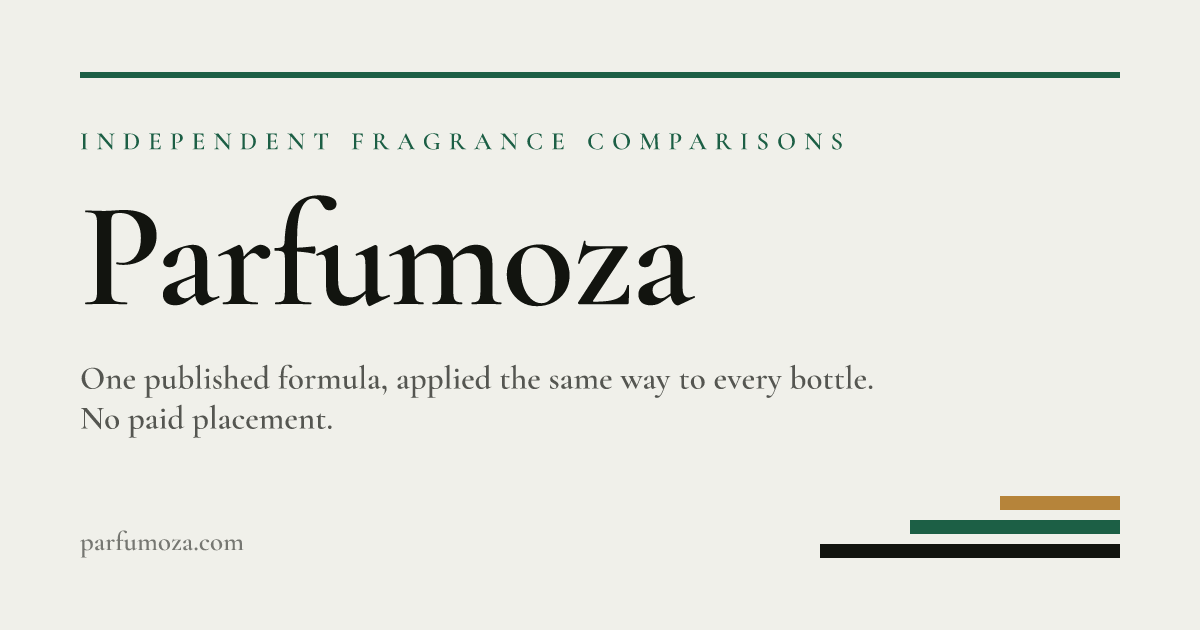
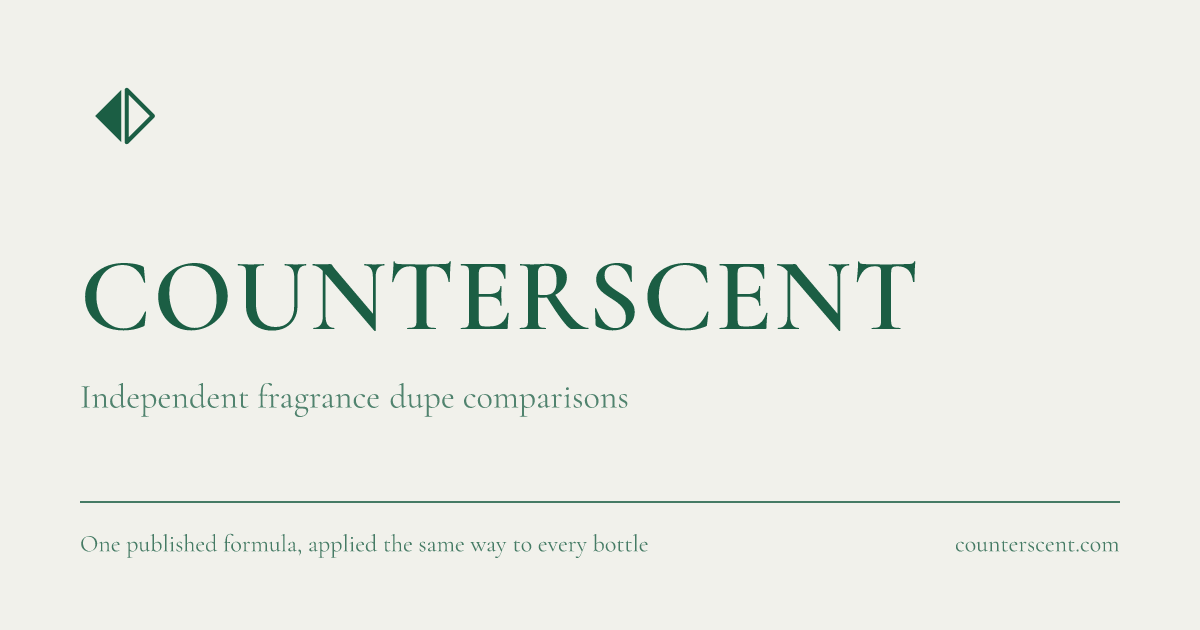
New OG card, cookieless GA4, and the USD account answer
OG CARD
public/og-cover.png re-rendered for the new brand. Every link pasted into a
chat had been showing the dead name.

Regenerated the documented way: a throwaway edge route using next/og with
Cormorant Garamond fetched from Google Fonts and the palette from
globals.css, then deleted. Two obstacles worth recording for next time --
trailingSlash:true redirects /og-render to /og-render/ where no handler is
registered, and output:"export" disables route handlers outright, so the
route 404s until the export is temporarily lifted. next.config.mjs was
restored from a backup immediately afterwards; verified zero route handlers
and a clean build.

COOKIELESS GA4
client_storage:'none' plus anonymize_ip. KVKK, like ePrivacy, keys the
consent requirement on storing information on the user's device -- no cookie
written means no consent banner, and /privacy now says that plainly instead
of resting on a legitimate-interest claim a regulator may not accept for
analytics cookies.

The cost is recorded in the component because it cuts the wrong way: without
client-side storage GA4 cannot recognise a returning visitor, so Users drifts
toward Sessions and the figure INFLATES. That is the direction that flatters
us, and the whole reason analytics is on is to answer "monthly unique
visitors" on an affiliate application. Do not quote GA4 Users to Awin --
Cloudflare Web Analytics is already on the account, cookieless by design, and
derives counts server-side.
[…]

diff --git a/internal/dashboard/design/Main.dc.html b/internal/dashboard/design/Main.dc.html
@@ -779,11 +779,11 @@ class Component extends DCLogic {
       { id: 171, title: 'Board-review fixes: house products can no longer self-certify a score', dept: 'web', status: 'fulfilled', priority: 1, due: null,
         notes: 'The unverified score cap keyed on the "verified" status - and PARFUMOZA is the only party who grants "verified", while also selling its own fragrance line on a site branded "Independent Fragrance Comparisons". Nothing structural stopped us marking our own bottle verified and publishing an uncapped score at #1. getPublishedScore now takes the whole listing (not a bare status) so no call site can bypass it, and refuses to lift the cap for a house product whatever its status says; the badge reads "Our own product - self-declared". Proven with two probe listings identical in notes, facets and verified status, differing only in producer: 90% house (capped) vs 92% third party (raw). That probe then exposed a SECOND defect nobody had noticed - ranking sorted on raw while display showed capped, so our bottle sat at #1 showing 90% above a listing showing 92%. Ranking now sorts published-first, raw-second, price-third. Also fixed: content/loader.ts now fails the build if the content type of a piece has no route (comparison/review routes were deleted, so writing one would have shipped a card linking to a 404 - the first thing an affiliate reviewer clicks), and the library page derives its tabs from what is actually published instead of showing permanent "Comparisons (0)" / "Reviews (0)". What is NOT fixed and is not fixable in code: a house listing whose notes are written close to the reference still legitimately out-ranks honest ones. That is data authorship, not scoring. COO recommendation stands - launch with no house products until Awin approves.' },
       { id: 172, title: 'Affiliate payee settled: A.S. - but the USD account may be in the wrong name', dept: 'acct', status: 'in_progress', priority: 1, due: null,
-        notes: 'Founder decided the payee is the company: Awin does not self-bill Turkish tax residents (Turkey is an explicit exception in their own policy), so we issue our own invoice per payout, and a Turkish individual cannot casually issue a fatura. OPEN PROBLEM, and it is the CFO warning "costs sit in the A.S., revenue lands personally" warning in concrete form: the founder confirmed a USD account exists but is not connected to Payoneer - and the only USD account previously on record (2026-08-24) is a PERSONAL one. An A.S. issuing the invoice while a personal account receives the money means the invoice issuer and the payment recipient are different legal persons, which a mali musavir will object to. Confirm whose name the USD account is in before enrolling; if personal, the A.S. needs its own USD (doviz) account - routine to open with a tax ID on file. Separately VERIFIED LIVE against the Amazon Associates help page: Amazon direct deposit is gated on COUNTRY, not just currency - US (USD), UK (GBP/EUR), 51 Eurozone/EEA (EUR), 52 total, and Turkey is not among them. A USD account held in Turkey does not qualify. So the USD account does not unblock Amazon; only Payoneer does, because Payoneer supplies a US-domiciled account. amazon.com.tr is also invite-only.' },
+        notes: 'UPDATE 2026-08-27 evening: founder checked - the COMPANY HAS NO USD ACCOUNT. The only USD account on record is personal, so an A.S. invoice paid into it would make the invoice issuer and the payee different legal persons. A company USD (doviz) account is being opened 2026-08-28; routine with a tax ID on file. DO NOT ENROL ANYWHERE until it exists - the payee named on an affiliate application is hard to change afterwards. Note the bank account is separate from Payoneer: Payoneer supplies a US-domiciled account, which is what Amazon needs, while Awin pays a local bank account directly. ALSO DONE this session: GA4 switched to cookieless (client_storage none, anonymize_ip), which removes the KVKK consent question entirely - no cookie is written so there is nothing to consent to, and the privacy page now says so plainly instead of resting on a legitimate-interest claim. HONEST CAVEAT recorded in the code: cookieless GA4 cannot recognise a returning visitor, so its Users figure INFLATES toward sessions - the direction that flatters us. Do not quote it to Awin; use Cloudflare Web Analytics, already on the account and cookieless by design, for any number that goes on an application. Founder decided the payee is the company: Awin does not self-bill Turkish tax residents (Turkey is an explicit exception in their own policy), so we issue our own invoice per payout, and a Turkish individual cannot casually issue a fatura. OPEN PROBLEM, and it is the CFO warning "costs sit in the A.S., revenue lands personally" warning in concrete form: the founder confirmed a USD account exists but is not connected to Payoneer - and the only USD account previously on record (2026-08-24) is a PERSONAL one. An A.S. issuing the invoice while a personal account receives the money means the invoice issuer and the payment recipient are different legal persons, which a mali musavir will object to. Confirm whose name the USD account is in before enrolling; if personal, the A.S. needs its own USD (doviz) account - routine to open with a tax ID on file. Separately VERIFIED LIVE against the Amazon Associates help page: Amazon direct deposit is gated on COUNTRY, not just currency - US (USD), UK (GBP/EUR), 51 Eurozone/EEA (EUR), 52 total, and Turkey is not among them. A USD account held in Turkey does not qualify. So the USD account does not unblock Amazon; only Payoneer does, because Payoneer supplies a US-domiciled account. amazon.com.tr is also invite-only.' },
       { id: 173, title: 'Producer store-direct links: the one catalog path that does not need Awin', dept: 'sales', status: 'assigned', priority: 1, due: null,
         notes: 'Founder proposal: paid subscribers link straight at their own Shopify store, uncapped, with no affiliate network in between. Written up as PRODUCER-PROGRAM.md section 6a. Its real value is not pricing - it is the only route to a populated catalog that does not depend on Awin approving us. A subscribing producer supplies the same three things an affiliate feed would: real product names, real prices, and imagery they own the rights to, which is the other thing blocking the site (all 68 references have an empty imageUrl because perfume bottles are protected trade dress). It also removes the subscription-plus-commission double-dip for those listings - we take the subscription instead of commission, which decouples our revenue from ranking outcomes entirely. FOUR CONDITIONS before it ships. (1) Every paid outbound link needs rel="sponsored" - verified against the Google spam policy: links bought via subscription are paid links, and unmarked dofollow paid links are a link scheme whose penalty lands on OUR domain. (2) "Unlimited" must mean unlimited originals covered, not unlimited rows - one listing per producer-reference pair, which caps at 68 today and is not gameable by blanketing the catalog with variants. (3) It buys coverage, never placement - the score cap applies to these exactly as to any other unverified listing. (4) With no network there is no conversion report, so the Featured tier must stop promising conversion data for store-direct listings until attribution is agreed.' },
-      { id: 174, title: 'Brand rename: Parfumoza -> Counterscent, plus a new logo and two false claims removed', dept: 'web', status: 'in_progress', priority: 1, due: null,
-        notes: 'The board niche research named Fragrantica as the category authority and argued a design/quality gap. It never checked Parfumo (parfumo.com) - 227,701 fragrances, 14,421 brands, 283K reviews, running since 2008, and LARGER than Fragrantica. Parfumo is exactly the long-tenured neutral specialist the research said the category lacked, so the differentiation thesis rested on an incomplete survey. Worse, the domain we had bought contained Parfumo whole and sat one letter from Parfumado (a EUR3.2M-funded perfume subscription service). Certain consequence: our brand query would be permanently intercepted by a far bigger same-niche brand. Likely: an Awin reviewer reads a dupe site named one letter off the sector database as brand-piggybacking. Plausible but unverified: trademark exposure - no registration was found, which is an open question, not a clearance. Caught at the cheapest possible moment: zero backlinks, nothing indexed, no affiliate application filed. VETTING THE REPLACEMENT eliminated five of eight candidates, two of which were about to be recommended: drydowns.com (The Drydown is an operating San Diego niche boutique - the original brand instinct would have hit the same trap), echoscent.com (a live brand pitched as smell expensive without overspending, our exact positioning), scentkin.com (Maison Kin, operating house), nearscent.com, and sillageo.com (ends in -o like both incumbents). DONE: counterscent.com chosen; 28 code files renamed, 55 replacements, build/lint/tsc clean; new logo designed - one facet split down the middle, left half solid and right half outline, identical in shape and different in substance, the gap between them being the comparison itself; drawn in currentColor so one asset serves both themes. ALSO FOUND while wiring the logo into the footer: two surviving instances of the false first-hand claim that the Phase 0 honesty pass had recorded as removed - We buy the bottles on the homepage and We buy what we review in every page footer. We own no bottles and lib/types.ts states the facets are an editorial estimate. Both replaced with what is true. A claim can outlive its own correction. MY OWN ERROR, recorded because it cost real work: the bulk markdown rename rewrote the historical name inside the very section written to preserve it, producing Drydown -> Counterscent -> Counterscent. The dead name is now HTML-escaped in that section so a future find-and-replace cannot touch it. Code is mechanical, prose is not.' },
+      { id: 174, title: 'Brand rename: Parfumoza -> Counterscent, plus a new logo and two false claims removed', dept: 'web', status: 'fulfilled', priority: 1, due: null,
+        notes: 'MIGRATION COMPLETE 2026-08-27: counterscent.com is live on Cloudflare with the new brand and logo, the nameserver move preserved every mail record, the sitemap serves 86 URLs all on the new domain with zero pointing at the old one, GA4 stream URL updated, and Search Console accepted the sitemap. The old domain was shut down at Hostinger with auto-renew disabled, so it lapses rather than charging the card again. Verified from outside the founder network AS GOOGLEBOT, not just in a browser: sitemap 200 application/xml, homepage 200, robots.txt 200 and declaring the sitemap, www 200 - because Cloudflare bot protection challenging Googlebot would have looked identical to a Search Console bug. Note robots.txt now carries a Cloudflare Managed Content block above ours; its User-agent: * group ends in Allow: / with a blank line before the AI-bot Disallow blocks, so Googlebot is not affected - worth re-checking if Cloudflare ever changes that injection. REMAINING: og-cover.png still renders the dead brand on every social share, and the GA4 cookies vs KVKK decision is still the founder call. The board niche research named Fragrantica as the category authority and argued a design/quality gap. It never checked Parfumo (parfumo.com) - 227,701 fragrances, 14,421 brands, 283K reviews, running since 2008, and LARGER than Fragrantica. Parfumo is exactly the long-tenured neutral specialist the research said the category lacked, so the differentiation thesis rested on an incomplete survey. Worse, the domain we had bought contained Parfumo whole and sat one letter from Parfumado (a EUR3.2M-funded perfume subscription service). Certain consequence: our brand query would be permanently intercepted by a far bigger same-niche brand. Likely: an Awin reviewer reads a dupe site named one letter off the sector database as brand-piggybacking. Plausible but unverified: trademark exposure - no registration was found, which is an open question, not a clearance. Caught at the cheapest possible moment: zero backlinks, nothing indexed, no affiliate application filed. VETTING THE REPLACEMENT eliminated five of eight candidates, two of which were about to be recommended: drydowns.com (The Drydown is an operating San Diego niche boutique - the original brand instinct would have hit the same trap), echoscent.com (a live brand pitched as smell expensive without overspending, our exact positioning), scentkin.com (Maison Kin, operating house), nearscent.com, and sillageo.com (ends in -o like both incumbents). DONE: counterscent.com chosen; 28 code files renamed, 55 replacements, build/lint/tsc clean; new logo designed - one facet split down the middle, left half solid and right half outline, identical in shape and different in substance, the gap between them being the comparison itself; drawn in currentColor so one asset serves both themes. ALSO FOUND while wiring the logo into the footer: two surviving instances of the false first-hand claim that the Phase 0 honesty pass had recorded as removed - We buy the bottles on the homepage and We buy what we review in every page footer. We own no bottles and lib/types.ts states the facets are an editorial estimate. Both replaced with what is true. A claim can outlive its own correction. MY OWN ERROR, recorded because it cost real work: the bulk markdown rename rewrote the historical name inside the very section written to preserve it, producing Drydown -> Counterscent -> Counterscent. The dead name is now HTML-escaped in that section so a future find-and-replace cannot touch it. Code is mechanical, prose is not.' },
     ];
 
     // Demo-only tasks for departments with no real assignment yet — shown only with

diff --git a/internal/dashboard/design/sirketim-dashboard.html b/internal/dashboard/design/sirketim-dashboard.html
@@ -520,11 +520,11 @@
     { id: 171, title: 'Board-review fixes: house products can no longer self-certify a score', dept: 'web', status: 'fulfilled', priority: 1, due: null,
       notes: 'The unverified score cap keyed on the "verified" status - and PARFUMOZA is the only party who grants "verified", while also selling its own fragrance line on a site branded "Independent Fragrance Comparisons". Nothing structural stopped us marking our own bottle verified and publishing an uncapped score at #1. getPublishedScore now takes the whole listing (not a bare status) so no call site can bypass it, and refuses to lift the cap for a house product whatever its status says; the badge reads "Our own product - self-declared". Proven with two probe listings identical in notes, facets and verified status, differing only in producer: 90% house (capped) vs 92% third party (raw). That probe then exposed a SECOND defect nobody had noticed - ranking sorted on raw while display showed capped, so our bottle sat at #1 showing 90% above a listing showing 92%. Ranking now sorts published-first, raw-second, price-third. Also fixed: content/loader.ts now fails the build if the content type of a piece has no route (comparison/review routes were deleted, so writing one would have shipped a card linking to a 404 - the first thing an affiliate reviewer clicks), and the library page derives its tabs from what is actually published instead of showing permanent "Comparisons (0)" / "Reviews (0)". What is NOT fixed and is not fixable in code: a house listing whose notes are written close to the reference still legitimately out-ranks honest ones. That is data authorship, not scoring. COO recommendation stands - launch with no house products until Awin approves.' },
     { id: 172, title: 'Affiliate payee settled: A.S. - but the USD account may be in the wrong name', dept: 'acct', status: 'in_progress', priority: 1, due: null,
-      notes: 'Founder decided the payee is the company: Awin does not self-bill Turkish tax residents (Turkey is an explicit exception in their own policy), so we issue our own invoice per payout, and a Turkish individual cannot casually issue a fatura. OPEN PROBLEM, and it is the CFO warning "costs sit in the A.S., revenue lands personally" warning in concrete form: the founder confirmed a USD account exists but is not connected to Payoneer - and the only USD account previously on record (2026-08-24) is a PERSONAL one. An A.S. issuing the invoice while a personal account receives the money means the invoice issuer and the payment recipient are different legal persons, which a mali musavir will object to. Confirm whose name the USD account is in before enrolling; if personal, the A.S. needs its own USD (doviz) account - routine to open with a tax ID on file. Separately VERIFIED LIVE against the Amazon Associates help page: Amazon direct deposit is gated on COUNTRY, not just currency - US (USD), UK (GBP/EUR), 51 Eurozone/EEA (EUR), 52 total, and Turkey is not among them. A USD account held in Turkey does not qualify. So the USD account does not unblock Amazon; only Payoneer does, because Payoneer supplies a US-domiciled account. amazon.com.tr is also invite-only.' },
+      notes: 'UPDATE 2026-08-27 evening: founder checked - the COMPANY HAS NO USD ACCOUNT. The only USD account on record is personal, so an A.S. invoice paid into it would make the invoice issuer and the payee different legal persons. A company USD (doviz) account is being opened 2026-08-28; routine with a tax ID on file. DO NOT ENROL ANYWHERE until it exists - the payee named on an affiliate application is hard to change afterwards. Note the bank account is separate from Payoneer: Payoneer supplies a US-domiciled account, which is what Amazon needs, while Awin pays a local bank account directly. ALSO DONE this session: GA4 switched to cookieless (client_storage none, anonymize_ip), which removes the KVKK consent question entirely - no cookie is written so there is nothing to consent to, and the privacy page now says so plainly instead of resting on a legitimate-interest claim. HONEST CAVEAT recorded in the code: cookieless GA4 cannot recognise a returning visitor, so its Users figure INFLATES toward sessions - the direction that flatters us. Do not quote it to Awin; use Cloudflare Web Analytics, already on the account and cookieless by design, for any number that goes on an application. Founder decided the payee is the company: Awin does not self-bill Turkish tax residents (Turkey is an explicit exception in their own policy), so we issue our own invoice per payout, and a Turkish individual cannot casually issue a fatura. OPEN PROBLEM, and it is the CFO warning "costs sit in the A.S., revenue lands personally" warning in concrete form: the founder confirmed a USD account exists but is not connected to Payoneer - and the only USD account previously on record (2026-08-24) is a PERSONAL one. An A.S. issuing the invoice while a personal account receives the money means the invoice issuer and the payment recipient are different legal persons, which a mali musavir will object to. Confirm whose name the USD account is in before enrolling; if personal, the A.S. needs its own USD (doviz) account - routine to open with a tax ID on file. Separately VERIFIED LIVE against the Amazon Associates help page: Amazon direct deposit is gated on COUNTRY, not just currency - US (USD), UK (GBP/EUR), 51 Eurozone/EEA (EUR), 52 total, and Turkey is not among them. A USD account held in Turkey does not qualify. So the USD account does not unblock Amazon; only Payoneer does, because Payoneer supplies a US-domiciled account. amazon.com.tr is also invite-only.' },
     { id: 173, title: 'Producer store-direct links: the one catalog path that does not need Awin', dept: 'sales', status: 'assigned', priority: 1, due: null,
       notes: 'Founder proposal: paid subscribers link straight at their own Shopify store, uncapped, with no affiliate network in between. Written up as PRODUCER-PROGRAM.md section 6a. Its real value is not pricing - it is the only route to a populated catalog that does not depend on Awin approving us. A subscribing producer supplies the same three things an affiliate feed would: real product names, real prices, and imagery they own the rights to, which is the other thing blocking the site (all 68 references have an empty imageUrl because perfume bottles are protected trade dress). It also removes the subscription-plus-commission double-dip for those listings - we take the subscription instead of commission, which decouples our revenue from ranking outcomes entirely. FOUR CONDITIONS before it ships. (1) Every paid outbound link needs rel="sponsored" - verified against the Google spam policy: links bought via subscription are paid links, and unmarked dofollow paid links are a link scheme whose penalty lands on OUR domain. (2) "Unlimited" must mean unlimited originals covered, not unlimited rows - one listing per producer-reference pair, which caps at 68 today and is not gameable by blanketing the catalog with variants. (3) It buys coverage, never placement - the score cap applies to these exactly as to any other unverified listing. (4) With no network there is no conversion report, so the Featured tier must stop promising conversion data for store-direct listings until attribution is agreed.' },
-    { id: 174, title: 'Brand rename: Parfumoza -> Counterscent, plus a new logo and two false claims removed', dept: 'web', status: 'in_progress', priority: 1, due: null,
-      notes: 'The board niche research named Fragrantica as the category authority and argued a design/quality gap. It never checked Parfumo (parfumo.com) - 227,701 fragrances, 14,421 brands, 283K reviews, running since 2008, and LARGER than Fragrantica. Parfumo is exactly the long-tenured neutral specialist the research said the category lacked, so the differentiation thesis rested on an incomplete survey. Worse, the domain we had bought contained Parfumo whole and sat one letter from Parfumado (a EUR3.2M-funded perfume subscription service). Certain consequence: our brand query would be permanently intercepted by a far bigger same-niche brand. Likely: an Awin reviewer reads a dupe site named one letter off the sector database as brand-piggybacking. Plausible but unverified: trademark exposure - no registration was found, which is an open question, not a clearance. Caught at the cheapest possible moment: zero backlinks, nothing indexed, no affiliate application filed. VETTING THE REPLACEMENT eliminated five of eight candidates, two of which were about to be recommended: drydowns.com (The Drydown is an operating San Diego niche boutique - the original brand instinct would have hit the same trap), echoscent.com (a live brand pitched as smell expensive without overspending, our exact positioning), scentkin.com (Maison Kin, operating house), nearscent.com, and sillageo.com (ends in -o like both incumbents). DONE: counterscent.com chosen; 28 code files renamed, 55 replacements, build/lint/tsc clean; new logo designed - one facet split down the middle, left half solid and right half outline, identical in shape and different in substance, the gap between them being the comparison itself; drawn in currentColor so one asset serves both themes. ALSO FOUND while wiring the logo into the footer: two surviving instances of the false first-hand claim that the Phase 0 honesty pass had recorded as removed - We buy the bottles on the homepage and We buy what we review in every page footer. We own no bottles and lib/types.ts states the facets are an editorial estimate. Both replaced with what is true. A claim can outlive its own correction. MY OWN ERROR, recorded because it cost real work: the bulk markdown rename rewrote the historical name inside the very section written to preserve it, producing Drydown -> Counterscent -> Counterscent. The dead name is now HTML-escaped in that section so a future find-and-replace cannot touch it. Code is mechanical, prose is not.' }
+    { id: 174, title: 'Brand rename: Parfumoza -> Counterscent, plus a new logo and two false claims removed', dept: 'web', status: 'fulfilled', priority: 1, due: null,
+      notes: 'MIGRATION COMPLETE 2026-08-27: counterscent.com is live on Cloudflare with the new brand and logo, the nameserver move preserved every mail record, the sitemap serves 86 URLs all on the new domain with zero pointing at the old one, GA4 stream URL updated, and Search Console accepted the sitemap. The old domain was shut down at Hostinger with auto-renew disabled, so it lapses rather than charging the card again. Verified from outside the founder network AS GOOGLEBOT, not just in a browser: sitemap 200 application/xml, homepage 200, robots.txt 200 and declaring the sitemap, www 200 - because Cloudflare bot protection challenging Googlebot would have looked identical to a Search Console bug. Note robots.txt now carries a Cloudflare Managed Content block above ours; its User-agent: * group ends in Allow: / with a blank line before the AI-bot Disallow blocks, so Googlebot is not affected - worth re-checking if Cloudflare ever changes that injection. REMAINING: og-cover.png still renders the dead brand on every social share, and the GA4 cookies vs KVKK decision is still the founder call. The board niche research named Fragrantica as the category authority and argued a design/quality gap. It never checked Parfumo (parfumo.com) - 227,701 fragrances, 14,421 brands, 283K reviews, running since 2008, and LARGER than Fragrantica. Parfumo is exactly the long-tenured neutral specialist the research said the category lacked, so the differentiation thesis rested on an incomplete survey. Worse, the domain we had bought contained Parfumo whole and sat one letter from Parfumado (a EUR3.2M-funded perfume subscription service). Certain consequence: our brand query would be permanently intercepted by a far bigger same-niche brand. Likely: an Awin reviewer reads a dupe site named one letter off the sector database as brand-piggybacking. Plausible but unverified: trademark exposure - no registration was found, which is an open question, not a clearance. Caught at the cheapest possible moment: zero backlinks, nothing indexed, no affiliate application filed. VETTING THE REPLACEMENT eliminated five of eight candidates, two of which were about to be recommended: drydowns.com (The Drydown is an operating San Diego niche boutique - the original brand instinct would have hit the same trap), echoscent.com (a live brand pitched as smell expensive without overspending, our exact positioning), scentkin.com (Maison Kin, operating house), nearscent.com, and sillageo.com (ends in -o like both incumbents). DONE: counterscent.com chosen; 28 code files renamed, 55 replacements, build/lint/tsc clean; new logo designed - one facet split down the middle, left half solid and right half outline, identical in shape and different in substance, the gap between them being the comparison itself; drawn in currentColor so one asset serves both themes. ALSO FOUND while wiring the logo into the footer: two surviving instances of the false first-hand claim that the Phase 0 honesty pass had recorded as removed - We buy the bottles on the homepage and We buy what we review in every page footer. We own no bottles and lib/types.ts states the facets are an editorial estimate. Both replaced with what is true. A claim can outlive its own correction. MY OWN ERROR, recorded because it cost real work: the bulk markdown rename rewrote the historical name inside the very section written to preserve it, producing Drydown -> Counterscent -> Counterscent. The dead name is now HTML-escaped in that section so a future find-and-replace cannot touch it. Code is mechanical, prose is not.' }
   ];
 
   var SAMPLE_TASKS = [

diff --git a/products/affiliate-sites/fragrance-dupes/components/kit/Analytics.tsx b/products/affiliate-sites/fragrance-dupes/components/kit/Analytics.tsx
@@ -18,6 +18,36 @@ import { gaMeasurementId } from "@/lib/site";
  * `NEXT_PUBLIC_GSC_VERIFICATION` meta-tag path in app/layout.tsx is the
  * fallback for hosts where DNS is not ours to edit; it is unused here.
  */
+/**
+ * RUNS COOKIELESS, DELIBERATELY (2026-08-27).
+ *
+ * `client_storage: 'none'` stops GA4 writing the `_ga` cookie, and
+ * `anonymize_ip` truncates the address before storage. Together they take the
+ * site out of the category that needs consent: Turkey's KVKK, like the EU's
+ * ePrivacy rules, keys the consent requirement on *storing or accessing
+ * information on the user's device*, not on analytics as such. No cookie
+ * written means no consent banner, and `/privacy` can state that plainly
+ * rather than resting on a "legitimate interest" claim that a regulator may
+ * not accept for analytics cookies.
+ *
+ * THE COST, STATED PLAINLY BECAUSE IT CUTS THE WRONG WAY:
+ * without client-side storage GA4 cannot recognise a returning visitor, so it
+ * mints a new client id per visit. "Users" therefore drifts toward "sessions"
+ * and the number is INFLATED, not deflated. That matters here specifically,
+ * because the whole reason analytics was switched on is to answer "monthly
+ * unique visitors" on an affiliate application - and this error runs in the
+ * direction that flatters us.
+ *
+ * So do not quote GA4's Users figure to Awin. Cloudflare Web Analytics is
+ * already available on this account, is cookieless by design, and derives
+ * visitor counts server-side without the same inflation - use that for any
+ * number that goes on an application, and treat GA4 here as what it is: a
+ * shape-of-traffic tool (which pages, which sources, which trend).
+ *
+ * To revert to cookie-based GA4, remove the two flags AND add a consent
+ * banner in the same change - the flags are what make the missing banner
+ * lawful, so removing them alone silently creates the exposure.
+ */
 export function GoogleAnalytics() {
   const id = gaMeasurementId();
   if (!id) return null;
@@ -28,7 +58,10 @@ export function GoogleAnalytics() {
         {`window.dataLayer = window.dataLayer || [];
           function gtag(){dataLayer.push(arguments);}
           gtag('js', new Date());
-          gtag('config', '${id}');`}
+          gtag('config', '${id}', {
+            client_storage: 'none',
+            anonymize_ip: true
+          });`}
       </Script>
     </>
   );

diff --git a/products/affiliate-sites/fragrance-dupes/app/privacy/page.tsx b/products/affiliate-sites/fragrance-dupes/app/privacy/page.tsx
@@ -43,14 +43,22 @@ export default function PrivacyPage() {
 
         <h2>What we collect</h2>
         <p>
-          <strong>Analytics.</strong> We use Google
-          Analytics 4 to count visits and see which pages people read. It
-          records things like the page you viewed, your approximate region,
-          your browser and device type, and the site you arrived from. IP
-          addresses are anonymised by Google before they reach us. We use this
-          only to understand what is worth writing more of. Our lawful basis
-          is legitimate interest in understanding site usage, and you can opt
-          out at any time using Google&apos;s own{" "}
+          <strong>Analytics, and it does not use cookies.</strong> We use
+          Google Analytics 4 to count visits and see which pages people read,
+          configured so that it stores <em>nothing on your device</em> &mdash;
+          no analytics cookie is written, and no identifier is kept between
+          visits. That is why this site has no cookie banner: there is nothing
+          to ask you to consent to.
+        </p>
+        <p>
+          It records the page you viewed, your approximate region, your browser
+          and device type, and the site you arrived from. IP addresses are
+          anonymised before storage. We use this only to understand what is
+          worth writing more of. Because nothing is stored on your device, we
+          cannot tell whether you have been here before, and we do not build a
+          profile of you. Our lawful basis is legitimate interest in
+          understanding site usage; you can also opt out at any time using
+          Google&apos;s own{" "}
           <a
             href="https://tools.google.com/dlpage/gaoptout"
             rel="noopener noreferrer"

diff --git a/departments/accounting/CLAUDE.md b/departments/accounting/CLAUDE.md
@@ -80,6 +80,6 @@ Entity status confirmed (2026-08-24): Sirketim is a registered A.Ş. (anonim şi
 | Etsy | Firm (A.Ş.) | Bank transfer only (TR IBAN, TRY) — PayPal not available to Etsy sellers based in Turkey. | Firm TRY account confirmed available (2026-08-24) — not yet linked in Etsy Payments. | Turkish sellers on foreign marketplaces are separately required to register with ETBIS (Elektronik Ticaret Bilgi Sistemi); with the entity blocker resolved (Sirketim is a registered A.Ş. with a tax ID on file), ETBİS registration is now achievable — the remaining work is completing the registration process itself, not a missing entity or missing account. Exact KYC/tax-ID fields Etsy's signup form asks for TR sellers specifically weren't independently confirmed — check live at signup. |
 | Gumroad | TBD — founder decision | Confirmed rail gap: Gumroad's only two payout rails are PayPal and Stripe Connect bank payout. Stripe does not support standard/Connect accounts for Turkey, and PayPal does not operate in Turkey — neither rail currently works for a Turkey-based seller, and no Payoneer/Wise/bank-transfer alternative exists on Gumroad. | Not yet set up | No payout method selected in Gumroad account settings yet. This may not currently be executable at all for a TR-resident seller — verify live in Gumroad's own signup country dropdown before any listing effort. Contradicts the "secondary marketplace" assumption in `departments/sales/CLAUDE.md`; worth the COO/sales-strategist knowing about, though fixing the sales strategy itself is out of scope here. This is a fast-moving area — re-verify before committing effort, but as of today's research (2026-08-24) it's a confirmed gap, not just an unconfirmed detail. Available accounts (firm TRY, personal TRY, personal USD) don't unblock this — the gap is Gumroad's own supported rails, not a missing receiving account. |
 | Direct-to-customer invoicing | Firm (A.Ş.) | Two options: bank transfer/wire, available today with zero setup; or an invoicing/payment tool such as iyzico, whose onboarding is now a concrete, executable next step since it requires exactly what Sirketim now has on file — a registered firm (A.Ş.) and a tax ID. | Firm TRY account confirmed available (2026-08-24) — usable for bank-transfer invoicing immediately. iyzico onboarding not yet started. | Bank transfer is ready to use today with the existing firm account. iyzico onboarding is the concrete next step for card/link-based checkout when ready. |
-| **Awin** (COUNTERSCENT — planned first programme) | **Firm (A.Ş.)** — founder decision, 2026-08-27 | Bank transfer. **Awin does not self-bill Turkish tax residents** — Turkey is an explicit exception in Awin's own policy, so the publisher issues their own invoice per payout. | Not enrolled. Firm USD receiving account **not confirmed** — see the mismatch note. | The invoicing requirement is what settled the payee question: a Turkish individual cannot casually issue a *fatura*, so the payee is the A.Ş. **Open mismatch, needs resolving before enrollment:** the founder confirmed on 2026-08-27 that a USD account exists but is *not connected to Payoneer*, and the only USD account previously recorded here (2026-08-24) is a **personal** one. An A.Ş. issuing the invoice while a personal account receives the money means the invoice issuer and the payment recipient are different legal persons — a Turkish *mali müşavir* will object to that, and it is the precise form the CFO's "costs sit in the A.Ş., revenue lands personally" warning takes here. **Confirm whose name the USD account is in before enrolling**; if personal, the A.Ş. needs its own USD (döviz) account, which Turkish banks open routinely for a company with a tax ID on file. |
+| **Awin** (COUNTERSCENT — planned first programme) | **Firm (A.Ş.)** — founder decision, 2026-08-27 | Bank transfer. **Awin does not self-bill Turkish tax residents** — Turkey is an explicit exception in Awin's own policy, so the publisher issues their own invoice per payout. | Not enrolled. **Firm USD account does not exist yet — founder opening one 2026-08-28.** | The invoicing requirement settled the payee question: a Turkish individual cannot casually issue a *fatura*, so the payee is the A.Ş. **Resolved 2026-08-27, and the answer was the awkward one:** the founder checked, and the company has **no USD account**. The only USD account on record (2026-08-24) is **personal**. An A.Ş. issuing the invoice while a personal account receives the money makes the invoice issuer and the payment recipient different legal persons — a Turkish *mali müşavir* will object, and it is the precise form the CFO's "costs sit in the A.Ş., revenue lands personally" warning takes. The founder is opening a company USD (*döviz*) account on 2026-08-28; Turkish banks open these routinely for a company with a tax ID on file. **Do not enrol anywhere until it exists** — the payee named on an affiliate application is hard to change afterwards, and getting it wrong means either re-papering the account or invoicing from the wrong entity. Note this is a *bank* account, separate from Payoneer: Payoneer's own USD receiving account is US-domiciled and is what unblocks Amazon specifically, whereas Awin pays a local bank account directly. |
 | **Amazon Associates** | Would have to be Personal or Payoneer — **not** a Turkish firm account | **Direct deposit is impossible from Turkey. Verified live 2026-08-27** against Amazon's own Associates help page: eligibility is by **country**, not merely account currency — United States (USD), United Kingdom (GBP/EUR), and 51 Eurozone/EEA countries (EUR), 52 in total. **Turkey is not on that list.** A USD-denominated account *held in Turkey* therefore does not qualify; the country is what is checked. | Not enrolled, and not currently enrollable without Payoneer. | Three separate blockers, and the USD account clears **none** of them. (1) Payout: remaining options are a mailed check, an Amazon gift card, or a **Payoneer** virtual receiving account — Payoneer works precisely because it provides a *US-domiciled* account, which is why "we have a USD account but it's not connected to Payoneer" does not substitute for it. (2) The **amazon.com.tr** programme ("Gelir Ortaklığı") is **invite-only** — no self-service registration. Whether a Turkey-resident may instead join **amazon.com (US)** Associates is **not verified** and should be checked at the source before planning around it. (3) The `/go/<slug>` redirect chokepoint may itself breach Amazon's ban on "Redirecting Links" — unresolved, and the penalty is account termination. See `departments/communication/reports/amazon-associates-application.md` §2. |
 | Affiliate program (generic) | TBD — per program | Varies by program — e.g. bank transfer, PayPal, Payoneer, or (for some programs) gift card/direct deposit | Personal TRY and personal USD accounts confirmed available (2026-08-24) as candidate receiving accounts; none linked to any specific program yet. | Placeholder row — add one row per specific program once enrolled (e.g. "Amazon Associates"), since instrument/threshold/schedule differ per program. Each program's payout account type is still a per-program decision (some only support a personal account, some pay in USD) — the personal USD account is specifically relevant for USD-paying programs. With a confirmed A.Ş. on file, some programs may now also offer a business/firm payout option — worth checking at enrollment alongside the personal-account options. |

diff --git a/products/affiliate-sites/fragrance-dupes/FINALIZATION-GUIDE.md b/products/affiliate-sites/fragrance-dupes/FINALIZATION-GUIDE.md
@@ -47,7 +47,7 @@ Canonical copy. Published visual version is linked from the dashboard.
 | **Amazon Associates** | **Possible only through Payoneer — and still gated behind an invite** | Nuanced, and the nuance was previously recorded wrongly. **Verified live 27 Aug** against Amazon's own Associates help page: direct-deposit eligibility is by **country, not by account currency** — United States (USD), United Kingdom (GBP/EUR), 51 Eurozone/EEA countries (EUR), **52 in total, Turkey absent**. This matters because the founder holds a **USD bank account** and reasonably read the old "by account currency (USD/GBP/EUR)" wording as clearing the blocker. It does not: a USD account *held in Turkey* is ineligible. **Payoneer is the fix precisely because it supplies a US-*domiciled* account** — a different thing from a USD-denominated one. Remaining gates: `amazon.com.tr` is **invite-only** (no self-service signup), whether a TR resident may instead join **amazon.com (US)** is **unverified**, and the `/go/<slug>` redirect may breach Amazon's "Redirecting Links" clause. Economics unchanged: 3% most Beauty, 24-hour cookie, 180-day/3-sale clock starting **at application**. |
 | **Awin** | **Free to join — the €100 was the wrong page** | The ~€100 is Awin's **advertiser** pricing (£99+VAT/mo + 3.5% per transaction), what a *brand* pays to run a programme. The publisher side states "Free to join, no hidden fees". Not a cost reason to exclude it — worth keeping as the backup rail so Amazon is not a single point of failure. |
 | **Payee** | **REVERSED 27 Aug → the A.Ş.** | The invoicing requirement settled it, exactly as the escape clause below predicted. Awin does **not** self-bill Turkish tax residents (Turkey is an explicit exception in Awin's own policy), so the publisher issues their own invoice per payout — and a Turkish individual cannot casually issue a *fatura*. Founder: *"for invoice we need company account."* **This creates a new open problem, see below.** |
-| **Payee receiving account** | ⚠ **UNRESOLVED — the blocking item** | The founder confirmed a **USD account exists but is not connected to Payoneer**, and the only USD account previously on record (24 Aug) is a **personal** one. An A.Ş. issuing the invoice while a personal account receives the money makes the invoice issuer and the payee **different legal persons** — a *mali müşavir* will object, and it is the CFO's "costs in the A.Ş., revenue personal" warning in its concrete form. **Confirm whose name the USD account is in before enrolling anywhere.** If personal, the A.Ş. needs its own USD (*döviz*) account — routine to open with a tax ID on file. |
+| **Payee receiving account** | ◐ **Being opened 28 Aug — still gates Phase 3** | Checked and answered on 27 Aug, and the answer was the awkward one: **the company has no USD account.** The only one on record (24 Aug) is **personal**, so an A.Ş. invoice paid into it would make the invoice issuer and the payee **different legal persons** — the CFO's "costs in the A.Ş., revenue personal" warning in its concrete form. Founder is opening a company USD (*döviz*) account on **28 Aug**; routine with a tax ID on file. **Do not enrol anywhere until it exists** — the payee named on an affiliate application is hard to change afterwards. Note this is a *bank* account and is separate from Payoneer: Payoneer supplies a US-domiciled account (what Amazon needs), while Awin pays a local bank account directly. |
 | **Payment rail** | **Payoneer ✅ open. Paddle later** | Stripe cannot serve a Turkish business — verified against `stripe.com/global`; its integration has now been deleted from the codebase. A producer subscription rail is not needed until a producer agrees to pay. |
 
 ---
@@ -264,7 +264,7 @@ Nothing below can be done by an agent. Everything downstream waits on them.
 2. ~~**Open Payoneer.**~~ ✅ Open (27 Aug).
 3. ~~**Register the apex domain.**~~ ✅ `counterscent.com`, plus `contact@counterscent.com` (27 Aug).
 4. ~~**Choose a host and deploy.**~~ ✅ Done 27 Aug — Cloudflare Workers, $0/mo, live at counterscent.com with email intact.
-5. ⚠ **Confirm whose name the USD account is in — and open a company USD (*döviz*) account if it is personal.** *This is now the top blocker.* An A.Ş. invoice paid into a personal account will not survive review by the *mali müşavir*, and it cannot be fixed retroactively once payouts have started.
+5. ◐ **Open the company USD (*döviz*) account** — scheduled 28 Aug. *This is the top blocker.* Checked on 27 Aug: the company has none, and the USD account on record is personal. An A.Ş. invoice paid into a personal account will not survive review by the *mali müşavir*, and it cannot be fixed retroactively once payouts have started.
 6. **Supply the Hostinger receipt** — amount, currency, and whether auto-renew is on. No agent can retrieve this: `hostinger-billing` is deliberately not configured because it exposes purchase operations. The ledger records **nothing** about this project until you provide it.
 7. **Decide on producer store-direct links** (§3.6) — this is the one path to a populated catalog that does not wait on Awin approving us.
 8. **Decide GA4 cookies vs KVKK.** The privacy policy claims legitimate interest; analytics cookies generally need consent. Recommendation: cookieless GA4 (`client_storage: 'none'`), which keeps the visitor counts an affiliate application needs without the consent question.
